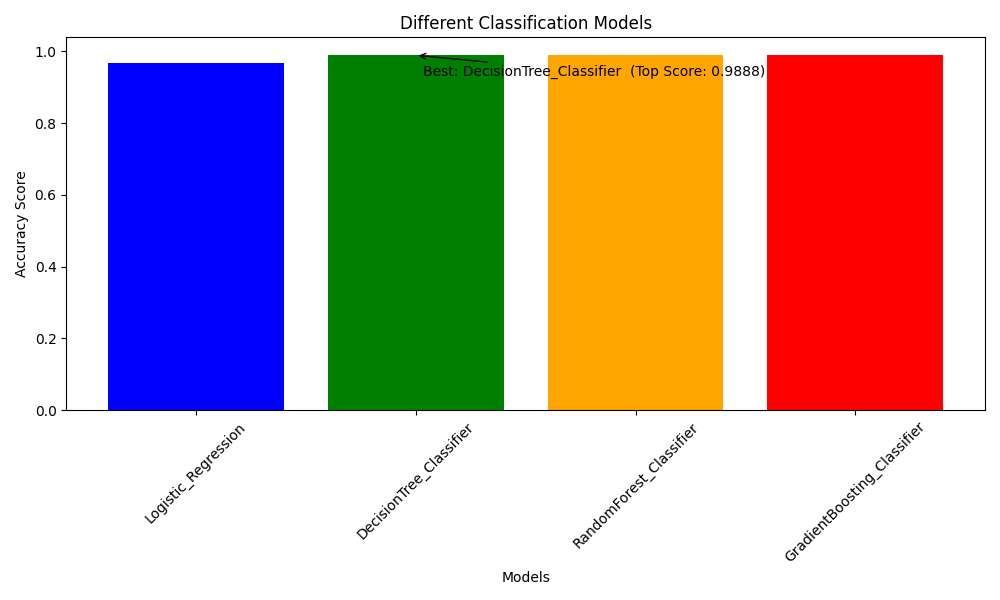
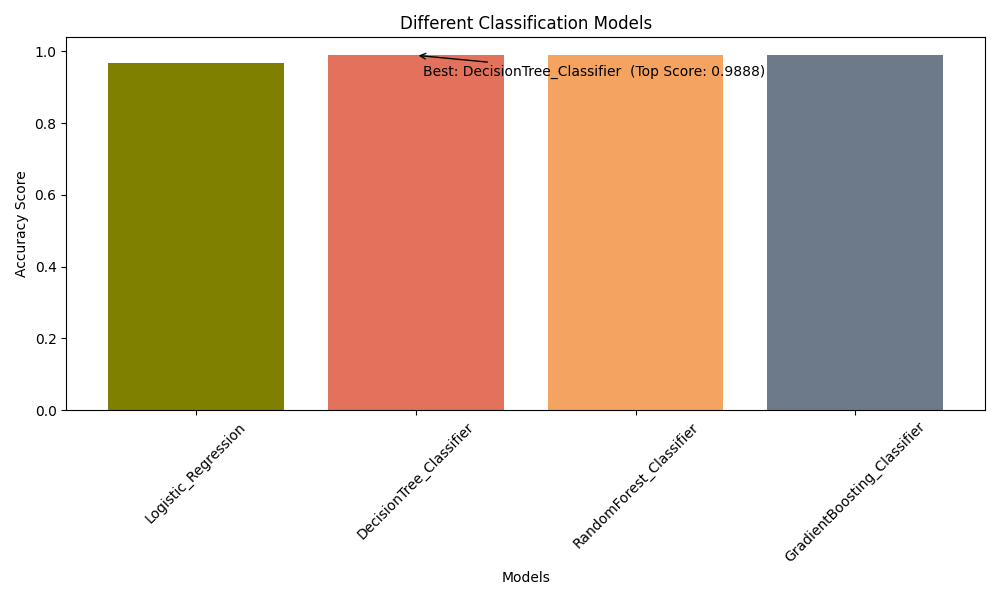
Finished Data Visualisation for regression models

diff --git a/modelling.py b/modelling.py
@@ -14,6 +14,8 @@ import matplotlib.pyplot as plt
 import os
 import pandas as pd
 import numpy as np
+import statsmodels.api as sm
+
 
 # Split dataset into training, testing, and validation sets
 def split_X_y(X:pd.DataFrame, y:pd.Series)->Tuple:
@@ -91,6 +93,7 @@ def train_regression_model(X_train:pd.DataFrame, y_train:pd.Series, X_test:pd.Da
     print(f"Initial Test RMSE: {test_rmse} | Initial Test R-squared (R2): {test_r2}\n")
     # The outputs at this point suggest that there might be some issues with the model
     # Extreme high values of MSE and negative R-squared suggest that the model is not fitting well
+    return model
 
 # Custom tune hyperparameters of a model and return the best model and metrics
 def custom_tune_regression_model_hyperparameters(model_class: type,X_train: pd.DataFrame,y_train: pd.Series,X_val: pd.DataFrame,y_val: pd.Series,hyperparameters: Dict[str, List]):
@@ -244,31 +247,7 @@ def save_model(model, hyperparameters, performance_metrics, folder='models/regre
     with open(performance_metrics_name, 'w') as f:
         json.dump(performance_metrics, f, indent=4)
 
-
-# Create scatter plot with line of best fit for regression models
-def plot_regression_results(y_actual, y_predicted, model_name):
-    """
     
-    """
-    plt.figure(figsize=(8, 6))
-    
-    plt.scatter(y_actual, y_predicted, color='blue', alpha=0.5)
-    
-    # Fit a linear regression line to the scatter plot
-    slope, intercept = np.polyfit(y_actual, y_predicted, 1)
-    line_fit = slope * y_actual + intercept
-    
-    plt.plot(y_actual, line_fit, color='red')
-    
-    plt.title(f"Scatter Plot with Line of Best Fit ({model_name})")
-    plt.xlabel("Actual Values")
-    plt.ylabel("Predicted Values")
-    plt.tight_layout()
-    
-    plt.show()
-
-    
-
 def evaluate_all_models(X_train, y_train, X_val, y_val):
     """
     Evaluate different regression models using hyperparameter tuning and save results.
@@ -368,8 +347,6 @@ def evaluate_all_models(X_train, y_train, X_val, y_val):
     print("\n")
 
 
-
-
 def find_best_model(X_test,y_test):
     """
     Find the best model based on the saved RMSE values from previously tuned models.
@@ -442,47 +419,14 @@ def find_best_model(X_test,y_test):
     #plot_regression_results(y_test, y_custom_test_pred, custom_best_model)
     return best_model, best_hyperparameters, performance_metrics,y_test_rmse,custom_best_model,custom_best_hyperparameters,custom_performance_metrics,y_custom_test_rmse
 
-    """
-def plot_all_models(models:list,X_val:pd.DataFrame,y_val:pd.Series):
-    """
-    
-    """
-    if len(models) == 4:
-        k = 1
 
-        for model_name in models:
-            model_folder = f"models/regression/{model_name.lower()}"
-            model = joblib.load(os.path.join(model_folder,'model.joblib'))
-            y_pred_val = model.predict(X_val)
+def plot_all_models(models: list, X_val: pd.DataFrame, y_val: pd.Series, file_path: str = None):
 
-            plt.figure(figsize=(8,6))
-            plt.scatter(y_val, y_pred_val, color='blue', label='Predicted Values', marker='o')
-            plt.scatter(y_val, y_val, color='green', label='Actual Values', marker='x')  # Actual values in green
-            plt.subplot(2,2,k)
-            # Fit a linear regression line to the scatter plot
-            slope, intercept = np.polyfit(y_val, y_pred_val, 1)
-            line_fit = slope * y_val + intercept
-            plt.plot(y_pred_val,line_fit,color='r')
-            plt.title(model_name)
-            plt.xlabel("Actual Values")
-            plt.ylabel("Predicted Values")
-            plt.tight_layout()
-            k+=1
-    
-    plt.show()
-    """
-
-def plot_all_models(models: list, X_val: pd.DataFrame, y_val: pd.Series):
-
-    """
-    # Get the indices of the top 3 maximum values
-    top_indicesY = y_val.nlargest(3).index
-    top_indicesX = X_val.nlargest(3).index
-    # Drop the top 3 maximum values by index
-    y_val = y_val.drop(top_indicesY)
-    X_val = X_val.drop(top_indicesX)
-    """
-
+    Charcoal = "#36454F"
+    Teal = "#008080"
+    Coral = "#FF6B6B"
+    Peach = "#FFDAB9"
+    Olive_Green = "#808000"
 
     if len(models) == 4:
         plt.figure(figsize=(12, 8))  # Adjust the figure size
@@ -491,23 +435,76 @@ def plot_all_models(models: list, X_val: pd.DataFrame, y_val: pd.Series):
 
             if model_name == 'LinearRegression':
                 scaler = MinMaxScaler()
-                X_val = scaler.fit_transform(X_val)
+                X_val_scaled = scaler.fit_transform(X_val)
+            else:
+                X_val_scaled = X_val
             
             model_folder = f"models/regression/{model_name.lower()}"
             model = joblib.load(os.path.join(model_folder, 'model.joblib'))
-            y_pred_val = model.predict(X_val)
+            y_pred_val = model.predict(X_val_scaled)
 
             plt.subplot(2, 2, k)  # Define the subplot layout
-            plt.scatter(y_val, y_pred_val, color='blue', label='Predicted Values', marker='o')
-            plt.scatter(y_val, y_val, color='green', label='Actual Values', marker='x')
-
-            plt.plot(y_pred_val,y_pred_val,color='r')
-            plt.title(model_name)
-            plt.xlabel("Actual Values")
-            plt.ylabel("Predicted Values")
+            plt.scatter(X_val.iloc[:, 0], y_pred_val, color=Teal, label='Predicted Values', marker='x')
+            plt.scatter(X_val.iloc[:, 0], y_val, color=Coral, label='Actual Values', marker='o')
+            plt.title(f"\n{model_name}")
+            plt.legend()
+            plt.xlabel("Dataset Features (Validation Sample) X_val")
+            plt.ylabel("Label (Price per Night) y_val")
             plt.tight_layout()  # Adjust subplot layout
 
-        plt.show()
+        plt.suptitle("Scatterplot Comparison between 4 Different Regression models")
+        if file_path:
+            plt.savefig(file_path, format='png')
+            print(f"SubPlot saved as {file_path}")
+        else:
+            plt.show()
+
+
+    if len(models) == 1:
+
+        model = models[0]
+        y_pred_val = model.predict(X_val)
+        plt.figure(figsize=(8, 6))
+
+        plt.subplot(2, 2, 1)
+        plt.scatter(X_val.iloc[:, 0], y_val, color=Teal, label="Actual Values", marker='o')
+        plt.scatter(X_val.iloc[:, 0], y_pred_val, color=Coral, label="Predicted Values", marker='x')
+        plt.xlabel("Dataset Features (Validation Sample) X_val")
+        plt.ylabel("Label (Price per Night) y_val")
+        plt.title("Scatterplot between real and predicted values")
+        plt.legend()
+
+        residuals = y_val - y_pred_val
+        plt.subplot(2, 2, 2)
+        plt.scatter(X_val.iloc[:, 0], residuals, color = Olive_Green)
+        plt.axhline(y=0, color=Charcoal, linestyle='--')
+        plt.xlabel("Dataset Features (Validation Sample) X_val")
+        plt.ylabel("Label (Price per Night) y_val")
+        plt.title("Residual Plot")
+
+        plt.subplot(2, 2, 3)
+        plt.hist(residuals, bins=20, edgecolor='k', color=Peach)
+        plt.xlabel("Residuals")
+        plt.ylabel("Frequency")
+        plt.title("Distribution of Residuals using a histogram")
+
+        plt.subplot(2, 2, 4)
+        ax = plt.gca()
+        sm.qqplot(residuals,fit=True ,line='r', ax=ax)
+        plt.title("Q-Q Plot with a regression fit")
+
+        if isinstance(model, SGDRegressor):
+            plt.suptitle("SGDRegressor without Hyperparameters")
+        else:
+            plt.suptitle(f"Best Model: {model}")
+
+        plt.tight_layout()
+
+        if file_path:
+            plt.savefig(file_path, format='png')
+            print(f"SubPlot saved as {file_path}")
+        else:
+            plt.show()
 
 
 def main():
@@ -530,27 +527,31 @@ def main():
     X_train, y_train, X_test, y_test, X_val, y_val = split_X_y(X, y)
 
     # Train an initial regression model and print its performance
-    train_regression_model(X_train, y_train, X_test, y_test)
+    modelwithouthyperparameters = train_regression_model(X_train, y_train, X_test, y_test)
+    plot_all_models([modelwithouthyperparameters],X_val,y_val,"plots/regression/sgdregression_without_hyperparameters.png")
 
     # Evaluate different regression models and save the best one
     #evaluate_all_models(X_train, y_train, X_val, y_val)
 
     models = ["DecisionTree", "RandomForest", "GradientBoosting","LinearRegression"]
-    plot_all_models(models,X_val,y_val)
+    plot_all_models(models,X_val,y_val,"plots/regression/model_comparison.png")
 
     # Find the best model from the saved models
     best_model, best_hyperparameters, performance_metrics,y_test_rmse,custom_best_model,custom_best_hyperparameters,custom_performance_metrics,y_custom_test_rmse = find_best_model(X_test,y_test)
-    print("Using GridsearchCV:")
-    print("\tBest Model:", best_model)
-    print("\tBest Hyperparameters:", best_hyperparameters)
-    print("\tPerformance Metrics:", performance_metrics)
-    print("\tTEST RMSE:",y_test_rmse)
 
     print("\nUsing custome regression tuning:")
     print("\tBest Model",custom_best_model)
     print("\tBest Hyperparameters",custom_best_hyperparameters)
     print("\tPerformance Metrics:", custom_performance_metrics)
     print("\tTEST RMSE:",y_custom_test_rmse)
+
+    print("\nUsing GridsearchCV:")
+    print("\tBest Model:", best_model)
+    print("\tBest Hyperparameters:", best_hyperparameters)
+    print("\tPerformance Metrics:", performance_metrics)
+    print("\tTEST RMSE:",y_test_rmse)
+
+    plot_all_models([best_model],X_val,y_val,"plots/regression/best_model.png")
 
 if __name__ == "__main__":
     main()

diff --git a/classification.py b/classification.py
@@ -187,54 +187,6 @@ def save_model(model:type, hyperparameters:dict, performance_metrics:dict, folde
     with open(performance_metrics_name, 'w') as f:
         json.dump(performance_metrics, f, indent=4)
 
-def plot_model_comparison(models: List[str], scores: List[float], title: str,file_path: str = None):
-    """
-    Plot a bar chart comparing different models based on their performance scores.
-
-    Parameters
-    ----------
-
-        model : (list) \n
-        score : (dict) \n
-        title : (string) \n
-
-    Return
-    ------
-        None
-    """
-
-    plt.figure(figsize=(10, 6))
-    
-    # Define colors for each model's bar
-    colors = ['blue', 'green', 'orange', 'red']
-    
-    plt.bar(models, scores, color=colors)
-    
-    # Find the index of the best performing model
-    best_model_idx = np.argmax(scores)
-
-    # Retrieve the top score (maximum accuracy)
-    top_score = max(scores)
-
-    # Annotate the best performing model and top score
-    plt.annotate(f"Best: {models[best_model_idx]}  (Top Score: {top_score:.4f})", 
-                 xy=(best_model_idx, top_score), 
-                 xytext=(5, -15), textcoords='offset points',
-                 arrowprops=dict(arrowstyle="->", color='black'))
-
-    plt.title(title)
-    plt.xlabel("Models")
-    plt.ylabel("Accuracy Score")
-    plt.ylim(0, max(scores) + 0.05)  # Adjust ylim for better visualization
-    plt.xticks(rotation=45)
-    plt.tight_layout()
-
-    if file_path:
-        plt.savefig(file_path,format='png')
-        print(f"plot saved as {file_path}")
-    else:
-        plt.show()
-
 
 # Evaluate different models, tune hyperparameters, and save results
 def evaluate_all_models(X_train:pd.DataFrame,y_train:pd.Series,X_val:pd.DataFrame,y_val:pd.Series):
@@ -346,6 +298,61 @@ def find_best_model(X_test,y_test):
 
     print(f"\n{model_name_string} is the best model.")
     return best_model,best_hyperparameters,performance_metrics,test_accuracy_score,test_precision_score,test_recall_score,test_f1_score
+
+
+def plot_model_comparison(models: List[str], scores: List[float], title: str,file_path: str = None):
+    """
+    Plot a bar chart comparing different models based on their performance scores.
+
+    Parameters
+    ----------
+
+        model : (list) \n
+        score : (dict) \n
+        title : (string) \n
+
+    Return
+    ------
+        None
+    """
+
+    plt.figure(figsize=(10, 6))
+    
+    # Define colors for each model's bar
+    Olive_Green= "#808000"
+    Terracotta= "#E2725B"
+    Sandy_Brown= "#F4A460"
+    Muted_Blue= "#6C7A89"
+    colors = [Olive_Green,Terracotta,Sandy_Brown,Muted_Blue]
+
+    
+    plt.bar(models, scores, color=colors)
+    
+    # Find the index of the best performing model
+    best_model_idx = np.argmax(scores)
+
+    # Retrieve the top score (maximum accuracy)
+    top_score = max(scores)
+
+    # Annotate the best performing model and top score
+    plt.annotate(f"Best: {models[best_model_idx]}  (Top Score: {top_score:.4f})", 
+                 xy=(best_model_idx, top_score), 
+                 xytext=(5, -15), textcoords='offset points',
+                 arrowprops=dict(arrowstyle="->", color='black'))
+
+    plt.title(title)
+    plt.xlabel("Models")
+    plt.ylabel("Accuracy Score")
+    plt.ylim(0, max(scores) + 0.05)  # Adjust ylim for better visualization
+    plt.xticks(rotation=45)
+    plt.tight_layout()
+
+    if file_path:
+        plt.savefig(file_path,format='png')
+        print(f"plot saved as {file_path}")
+    else:
+        plt.show()
+
 
 # Main function to run the entire workflow
 def main():
